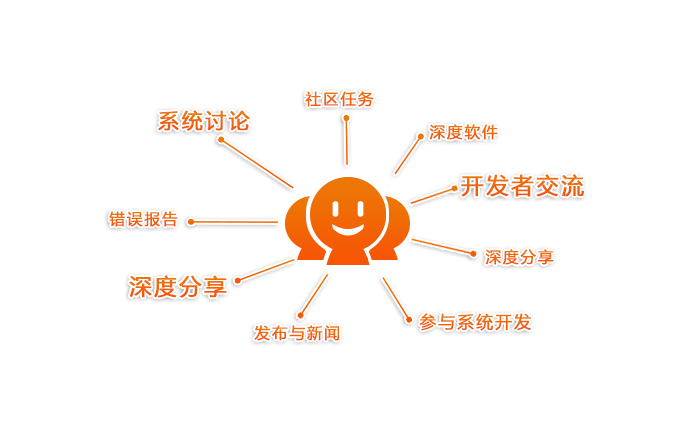
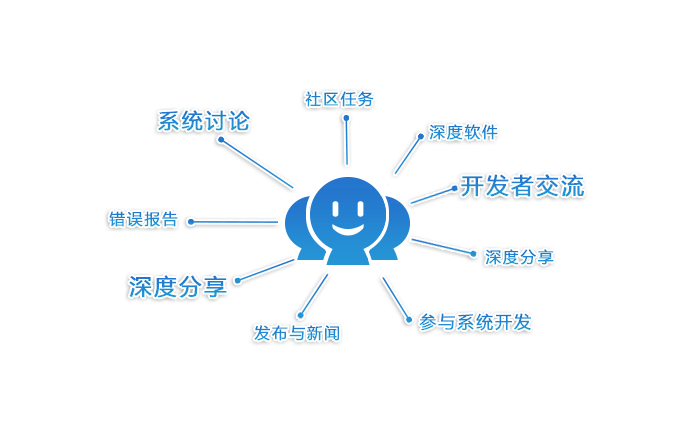
fix bugs and alter UI detail

diff --git a/contents/html/js/jquery.orbit-1.2.3.min.js b/contents/html/js/jquery.orbit-1.2.3.min.js
@@ -191,7 +191,7 @@
             }
             if (a.directionalNav) {
                 if (a.directionalNav == "false") return ! 1;
-                c.append('<div class="slider-nav"><span id="Right" class="right" onMouseOver="this.className=\'right0\';document.getElementById(\'Left\').className=\'left0\'" onMouseOut="this.className=\'right\';document.getElementById(\'Left\').className=\'left\'">Right</span><span class="left" id="Left" onMouseOver="this.className=\'left0\';document.getElementById(\'Right\').className=\'right0\'" onMouseOut="this.className=\'left\';document.getElementById(\'Right\').className=\'right\'">Left</span></div>');
+                c.append('<div class="slider-nav"><span id="Right" class="right" onMouseOver="this.className=\'right0\';" onMouseOut="this.className=\'right\';">Right</span><span class="left" id="Left" onMouseOver="this.className=\'left0\';" onMouseOut="this.className=\'left\';">Left</span></div>');
                 var k = c.children("div.slider-nav").children("span.left"),
                 w = c.children("div.slider-nav").children("span.right");
                 k.click(function() {
@@ -204,15 +204,15 @@
                 })
             }
             if (a.bullets) {
-                c.append('<ul class="orbit-bullets"></ul>');
-                var C = c.children("ul.orbit-bullets");
+                c.append('<div class="orbit-bullets"><ul style="width: 200px;text-align: center;padding: 0; margin: 7px 0;"></ul></div>');
+                var C = c.children("div.orbit-bullets").children("ul")
                 for (i = 0; i < p; i++) {
                     k = d("<li>" + (i + 1) + "</li>");
                     if (a.bulletThumbs && (w = e.eq(i).data("thumb"))) k = d('<li class="has-thumb">' + i + "</li>"),
                     k.css({
                         background: "url(" + a.bulletThumbLocation + w + ") no-repeat"
                     });
-                    c.children("ul.orbit-bullets").append(k);
+                    C.append(k);
                     k.data("index", i);
                     k.click(function() {
                         n();

diff --git a/contents/html/css/orbit-1.2.3.css b/contents/html/css/orbit-1.2.3.css
@@ -1,6 +1,9 @@
 html,body{
     margin:0px;
 }
+:focus {
+        outline: none;
+}
 #featured { 
 	background: #faf8f9 url('../images/loading.gif') no-repeat center center;
 	overflow: hidden; }
@@ -121,14 +124,18 @@ span.pause.active {
 
 .orbit-caption {
     display: none;
-    font-family: "HelveticaNeue", "Helvetica-Neue", Helvetica, Arial, sans-serif; }
+    font-family: "WenQuanYi Micro Hei", "HelveticaNeue", "Helvetica-Neue", Helvetica, Arial, sans-serif; }
+
+.orbit-caption a {
+    color: #2d6bac;
+}
 
 .orbit-wrapper .orbit-caption {
     bottom: 0;
     color: #535353;
-    font-size: 16px;
+    font-size: 14px;
     height: 60px;
-    padding: 10px 35px 0 35px;
+    padding: 20px 35px 0 35px;
     position: absolute;
     right: 0;
 	line-height:22px;
@@ -178,19 +185,20 @@ div.slider-nav span.left {
     list-style: none;
     bottom: 0;
     left: 50%;
-	margin-left: -25px;
-    padding: 0; }
+	margin-left: -100px;
+    padding: 0; 
+    width: 200px;
+}
 
 .orbit-bullets li {
-    float: left;
-    margin-left: 5px;
+    margin: 0 3px;
     cursor: pointer;
-    color: #999;
     text-indent: -9999px;
     background: url(../images/bullets.png) no-repeat 4px 0;
     width: 13px;
     height: 12px;
-    overflow: hidden; }
+    overflow: hidden; 
+    display: inline-block;}
 
 .orbit-bullets li.active {
     color: #222;

diff --git a/contents/html/css/home.css b/contents/html/css/home.css
@@ -1,5 +1,5 @@
 html,body{ margin:0}
-.wrap{ height:438px; width:685px; background:#faf8f9;}
+.wrap{ height:425px; width:685px; background:#faf8f9; padding-top: 13px;}
 *:focus {
         outline: none;
 }
@@ -14,5 +14,5 @@ ul,li{ margin:0px; padding:0; list-style:none;}
 .menu a{ display:block; height:60px; width:60px; margin:0 auto;}
 
 .bar{ width:66px; height:12px; border:1px solid #fff; box-shadow:inset -2px 5px 3px #ccc; margin-left:20px; background:#e0e0e0; position:absolute;}
-.barline{ background:#4cabed; height:12px; position:absolute; top:0; z-index:99;}
-.percent{ text-align:center; color:#666; font-size:9px; position:absolute; top:0; z-index:100; width:66px;}
+.barline{ background:#55bef3; height:12px; position:absolute; top:0; z-index:99;}
+.percent{ text-align:center; color:#1b1b1b; font-size:9px; position:absolute; top:0; z-index:100; width:66px;}

diff --git a/contents/html/index.html b/contents/html/index.html
@@ -24,7 +24,7 @@
 	<body>
 	
 	<div class="container" id="outer">
-		<div id="featured" onMouseOver="document.getElementById('Right').className='right0';document.getElementById('Left').className='left0'" onMouseOut="document.getElementById('Right').className='right';document.getElementById('Left').className='left'"> 
+		<div id="featured" > 
 		</div>
 		<!-- Captions for Orbit -->
 		

diff --git a/contents/html/js/common.js b/contents/html/js/common.js
@@ -13,6 +13,7 @@ function external_link(link){
     var type = "external_link";
     var data = link.href;
     write_to_title(type, data);
+    return false;
 }
 
 function create_index_img_node(id, img_path){

diff --git a/src/main.py b/src/main.py
@@ -84,7 +84,7 @@ class UserManual(Window):
         self.main_alignment.set_padding(0, 0, 0, 0)
         main_v_box = gtk.VBox()
 
-        self.slider = HSlider(500)
+        self.slider = HSlider(100)
         self.slider.set_size_request(self.width, self.titlebar_height)
         self.slider.to_page_now(home_title_bar)
         main_v_box.pack_start(self.slider)
